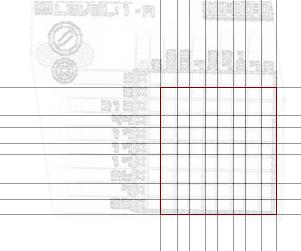
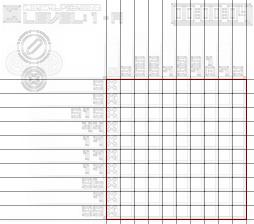
fixed detectgrid to be more effective. outputs correct gridRep

diff --git a/DetectGrid.py b/DetectGrid.py
@@ -25,10 +25,16 @@ def detect_lines(picture, name):
     width, height = picture.size
     (both, hor_filt, vert_filt) = prewitt.prewitt(pixels, width, height)
     
+    picture.save("./images/original.jpg")
+
     v = "vertical"
     h = "horizontal"
-    xcoords = detect_hv_lines(hor_filt,h)
-    ycoords = detect_hv_lines(vert_filt,v)
+    (saved, xcoords) = detect_hv_lines(hor_filt,h)
+    (savedy, ycoords) = detect_hv_lines(vert_filt,v)
+
+    paint_lines(hor_filt,saved,h).save("./images/saveda.jpg")
+    paint_lines(vert_filt,savedy,v).save("./images/savedv.jpg")
+
 
     # we'll trust the max coordinates as those are near the edge of the image
     # and are unlikely to be mistaken compared to the min coordinates
@@ -50,13 +56,13 @@ def detect_lines(picture, name):
 
 
     # get an evenly spaced set of lines
-    #xcoords = extrapolate_coords(max_x, projected_avg_x)
-    #ycoords = extrapolate_coords(max_y, projected_avg_y)
+    xcoords = extrapolate_coords(max_x, projected_avg_x)
+    ycoords = extrapolate_coords(max_y, projected_avg_y)
     #xcoords = extrapolate_coords(max_x, avg_x)
     #ycoords = extrapolate_coords(max_y, avg_y)
 
 
-    paintedh = paint_lines(hor_filt, xcoords,h)
+    paintedh = paint_lines(hor_filt,xcoords,h)
     paintedh.save("./images/painted_lines_hor_"+name+".jpg")
 
     paintedv = paint_lines(vert_filt, ycoords,v)
@@ -79,8 +85,13 @@ def detect_lines(picture, name):
     draw.rectangle(grid_coords,outline=128)
     del draw
     combined.save("./images/painted_lines_both_"+name+".jpg")
+    
 
-    return (xcoords,ycoords)
+    # return a Grid Representation of this solution
+    cell_length = projected_avg_x
+    cell_height = projected_avg_y
+    gr = Representations.GridRep(grid_coords, cell_length, cell_height)
+    return gr
 
 def extrapolate_coords(start, avg):
     new_coords = []
@@ -127,7 +138,7 @@ def detect_hv_lines(filtered,direction):
     # from a vertical pass where the horizontal bar hits a black
     # spot
     num_passes = 20
-    threshold = 120
+    threshold = 130
     window_size = 15
     width,height = filtered.size
     vert_counts = {}
@@ -157,7 +168,7 @@ def detect_hv_lines(filtered,direction):
                 longest_line = width-window_size
             if (pic_val < threshold and (not (i in vert_counts))):
                 count = 0
-                for line_i in xrange(longest_line):
+                for line_i in range(0,longest_line,window_size):
                     window_val = 0
                     for win_i in xrange(window_size):
                         if direction==v:
@@ -174,32 +185,43 @@ def detect_hv_lines(filtered,direction):
     # only lines that have a length at least 20% of the
     # longest line
     max_val = max(vert_counts.values())
-    threshold = 0.15 * max_val
+    threshold = 0.2 * max_val
     
     coords = []
     for key, value in vert_counts.iteritems():
         if value > threshold:
             coords.append(key)
+
+    saved_coords = list(coords)
+
     num_removed = 1
     while num_removed > 0:
+        print "coords: {}".format(coords)
         (coords,num_removed) = clean_lines(coords)
         print "num removed: {}".format(num_removed)
-    return coords
+    return (saved_coords,coords)
 
 
 # get rid of multiple lines corresponding to the same position
 # and remove lines that do not seem to be at the equal spacing
 # found within the actual grid
 def clean_lines(coords):
-    min_space = 8
+    min_space = 4
 
     coords.sort()
     prev_coord = coords[0]
     cleaned_coords = []
     for coord in coords:
-        if not (prev_coord>=(coord-min_space)):
+        space = coord - prev_coord
+        print "spaces: {}".format(space)
+        if space >= min_space:
             cleaned_coords.append(prev_coord)
         prev_coord = coord
+
+    # finish the cleaning of nothing is left to be done
+    if not cleaned_coords:
+        return (coords,0)
+
     # take care of final case
     if prev_coord > (max(cleaned_coords)+min_space):
         cleaned_coords.append(prev_coord)
@@ -217,9 +239,16 @@ def clean_lines(coords):
     for coord in cleaned_coords:
         diff = coord - prev_coord
         print '{0} to {1} has diff: {2}'.format(prev_coord,coord,diff)
-        if (prev_coord >= 0) and ((diff > max_tolerated) or (diff < min_tolerated)):
+        if (prev_coord >= 0) and (diff > max_tolerated):
             print "{0}--diff removed; {1}--coord removed".format(diff,prev_coord)
             cleaned_coords.remove(prev_coord)
+            num_removed+=1
+        elif (prev_coord >=0) and (diff < min_tolerated):
+            print "{0}--diff split; {1}--coord removed".format(diff,prev_coord)
+            cleaned_coords.remove(prev_coord)
+            avg_point = floor((diff / 2) + prev_coord)
+            cleaned_coords.insert(0,avg_point)
+            print "avg point: {} added".format(avg_point)
             num_removed+=1
         prev_coord = coord
 
@@ -250,16 +279,16 @@ def paint_lines(picture, coords, direction):
 
 # testing main
 if __name__=='__main__':
-    test_pic = './images/red_cropped.jpg'
+    """    test_pic = './images/red_cropped.jpg'
     image = Image.open(test_pic)
     (xcoords, ycoords) = detect_lines(image,"red")
     print "Red box sizes: (x then y)"
     print get_avg_diff(xcoords)
     print get_avg_diff(ycoords)
-
+    """
     test_pic = './images/blue.jpg'
     image = Image.open(test_pic)
-    (xcoords,ycoords) = detect_lines(image,"blue")
+    (xcoords,ycoords) = detect_lines(image,"test")
     print "Blue box sizes: (x then y)"
     print get_avg_diff(xcoords)
     print get_avg_diff(ycoords)

diff --git a/GetPicture.py b/GetPicture.py
@@ -6,7 +6,7 @@ import Image
 import ImageShow
 
 #test_pic = './testpicture.jpg'
-test_pic = './images/webcam.jpg'
+test_pic = './images/blue_9.jpg'
 
 def picture():
     image = Image.open(test_pic)

diff --git a/prewitt.py b/prewitt.py
@@ -1,5 +1,8 @@
 #!/usr/bin/python
 
+# most of this code was adapted from
+# http://archive.alwaysmovefast.com/basic-edge-detection-in-python.html
+
 
 import Image 
 import sys 
